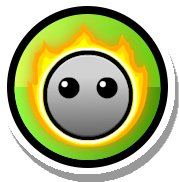
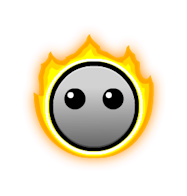
v1.1.4

diff --git a/src/FREditPopup.cpp b/src/FREditPopup.cpp
@@ -11,11 +11,10 @@ bool FRLevelInfoLayer::init(GJGameLevel* level, bool challenge) {
     if (!LevelInfoLayer::init(level, challenge)) return false;
 
     auto leftSideMenu = getChildByID("left-side-menu");
-    auto fakeRateButton = CCMenuItemSpriteExtra::create(
-        CCSprite::create("FR_fakeRateBtn_001.png"_spr),
-        this,
-        menu_selector(FRLevelInfoLayer::onFakeRate)
-    );
+    auto buttonSprite = CircleButtonSprite::createWithSprite("FR_fakeRateBtn_001.png"_spr, 1.0f, CircleBaseColor::Green, CircleBaseSize::Medium);
+    buttonSprite->getTopNode()->setScale(1.0f);
+    auto fakeRateButton = CCMenuItemSpriteExtra::create(buttonSprite, this, menu_selector(FRLevelInfoLayer::onFakeRate));
+    fakeRateButton->setID("fake-rate-button"_spr);
     leftSideMenu->addChild(fakeRateButton);
     leftSideMenu->updateLayout();
 
@@ -66,10 +65,27 @@ void FRLevelInfoLayer::updateFakeRate(int stars, int feature, int difficulty, bo
     auto winSize = CCDirector::sharedDirector()->getWinSize();
     auto gsm = GameStatsManager::sharedState();
     auto showStars = stars > 0 || m_level->m_dailyID > 0 || m_level->m_gauntletLevel;
-    m_difficultySprite->updateDifficultyFrame(difficulty, (GJDifficultyName)1);
+    m_difficultySprite->updateDifficultyFrame(difficulty, GJDifficultyName::Long);
     m_difficultySprite->updateFeatureState((GJFeatureState)feature);
-    m_difficultySprite->setPositionY(winSize.height / 2 + 56.0f + (difficulty > 5 ? 5.0f : 0.0f) + (showStars ? 10.0f : 0.0f));
-    m_starsIcon->setPosition({ m_difficultySprite->getPositionX() + 8.0f, m_difficultySprite->getPositionY() - 30.0f - (difficulty > 5 ? 9.0f : 0.0f) });
+    CCNode* nodeToSetPosition = m_difficultySprite;
+    CCNode* difficultySpriteParent = m_difficultySprite->getParent();
+    if (Loader::get()->isModLoaded("acaruso.horn")) {
+        auto children = getChildren();
+        for (int i = 0; i < children->count(); i++) {
+            if (auto child = typeinfo_cast<CCMenu*>(children->objectAtIndex(i))) {
+                if (auto button = typeinfo_cast<CCMenuItemSpriteExtra*>(child->getChildren()->objectAtIndex(0))) {
+                    if (button->getNormalImage() == m_difficultySprite) {
+                        nodeToSetPosition = child;
+                        difficultySpriteParent = button;
+                        break;
+                    }
+                }
+            }
+        }
+    }
+    nodeToSetPosition->setPositionY(winSize.height / 2 + 56.0f + (difficulty > 5 ? 5.0f : 0.0f) + (showStars ? 10.0f : 0.0f));
+    auto& position = nodeToSetPosition->getPosition();
+    m_starsIcon->setPosition({ position.x + 8.0f, position.y - 30.0f - (difficulty > 5 ? 9.0f : 0.0f) });
     m_starsIcon->setVisible(showStars);
     m_starsLabel->setPosition(m_starsIcon->getPositionX() - 8.0f, m_starsIcon->getPositionY());
     m_starsLabel->setString(std::to_string(stars).c_str());
@@ -77,7 +93,7 @@ void FRLevelInfoLayer::updateFakeRate(int stars, int feature, int difficulty, bo
     m_starsLabel->setColor({ 255, 255, (unsigned char)(gsm->hasCompletedLevel(m_level) ? 50 : 255) });
     for (int i = 0; i < m_coins->count(); i++) {
         auto coin = static_cast<CCSprite*>(m_coins->objectAtIndex(i));
-        coin->setPositionY(m_difficultySprite->getPositionY() - 31.5f - (showStars ? 14.0f : 0.0f)
+        coin->setPositionY(position.y - 31.5f - (showStars ? 14.0f : 0.0f)
             - (m_level->m_gauntletLevel || m_level->m_dailyID > 0 ? 14.5f : 0.0f) - (difficulty > 5 ? 9.0f : 0.0f));
         auto coinStr = fmt::format("{}_{}", m_level->m_levelID.value(), i + 1);
         if (m_level->m_dailyID > 0) coinStr += "_" + std::to_string(m_level->m_dailyID);
@@ -97,8 +113,8 @@ void FRLevelInfoLayer::updateFakeRate(int stars, int feature, int difficulty, bo
         auto diamonds = stars > 1 ? stars + 2 : 0;
         diamondLabel->setString(fmt::format("{}/{}", (int)floorf(diamonds * m_level->m_normalPercent / 100.0f), diamonds).c_str());
         diamondIcon->setPosition({
-            m_difficultySprite->getPositionX() + diamondLabel->getScaledContentSize().width * 0.5f + 2.0f,
-            m_difficultySprite->getPositionY() - (difficulty > 5 ? 9.0f : 0.0f) - 44.5f
+            position.x + diamondLabel->getScaledContentSize().width * 0.5f + 2.0f,
+            position.y - (difficulty > 5 ? 9.0f : 0.0f) - 44.5f
         });
         diamondLabel->setPosition({ diamondIcon->getPositionX() - 8.0f, diamondIcon->getPositionY() });
     }
@@ -127,7 +143,7 @@ void FRLevelInfoLayer::updateFakeRate(int stars, int feature, int difficulty, bo
         m_lengthLabel->setPositionY(m_lengthLabel->getPositionY() + 6.0f);
     }
 
-    if (Loader::get()->isModLoaded("uproxide.more_difficulties")) fixMoreDifficultiesIncompatibility();
+    if (Loader::get()->isModLoaded("uproxide.more_difficulties")) fixMoreDifficultiesIncompatibility(difficultySpriteParent);
 }
 
 void FRLevelInfoLayer::onFakeRate(CCObject*) {
@@ -141,7 +157,7 @@ void FRLevelInfoLayer::onFakeRate(CCObject*) {
     popup->show();
 }
 
-void FRLevelInfoLayer::fixMoreDifficultiesIncompatibility() {
+void FRLevelInfoLayer::fixMoreDifficultiesIncompatibility(CCNode* difficultySpriteParent) {
     auto spriteName = std::string();
     auto moreDifficultiesSprite = static_cast<CCSprite*>(getChildByID("uproxide.more_difficulties/more-difficulties-spr"));
     if (moreDifficultiesSprite) {
@@ -150,8 +166,11 @@ void FRLevelInfoLayer::fixMoreDifficultiesIncompatibility() {
     }
     m_difficultySprite->setOpacity(255);
 
-    auto legacy = Loader::get()->getInstalledMod("uproxide.more_difficulties")->getSettingValue<bool>("legacy-difficulties");
-    auto pos = CCPoint { m_difficultySprite->getPositionX() + (legacy ? 0.0f : 0.25f), m_difficultySprite->getPositionY() - (legacy ? 0.0f : 0.1f) };
+    auto legacy = Loader::get()->getLoadedMod("uproxide.more_difficulties")->getSettingValue<bool>("legacy-difficulties");
+    auto pos = difficultySpriteParent->convertToWorldSpace({
+        m_difficultySprite->getPositionX() + (legacy ? 0.0f : 0.25f),
+        m_difficultySprite->getPositionY() - (legacy ? 0.0f : 0.1f)
+    });
     if (spriteName.compare("uproxide.more_difficulties/MD_DifficultyCP.png") == 0) {
         moreDifficultiesSprite->setVisible(true);
         m_difficultySprite->setOpacity(0);
@@ -219,12 +238,12 @@ bool FREditPopup::setup(GJGameLevel* level, int stars, int feature, int difficul
     m_feature = feature;
     m_difficulty = difficulty;
 
-    m_difficultySprite = GJDifficultySprite::create(difficulty, (GJDifficultyName)1);
+    m_difficultySprite = GJDifficultySprite::create(difficulty, GJDifficultyName::Long);
     m_difficultySprite->setPositionX(100.0f);
     m_mainLayer->addChild(m_difficultySprite);
 
-    if (Loader::get()->isModInstalled("uproxide.more_difficulties")) {
-        auto legacy = Loader::get()->getInstalledMod("uproxide.more_difficulties")->getSettingValue<bool>("legacy-difficulties");
+    if (Loader::get()->isModLoaded("uproxide.more_difficulties")) {
+        auto legacy = Loader::get()->getLoadedMod("uproxide.more_difficulties")->getSettingValue<bool>("legacy-difficulties");
         auto pos = CCPoint { legacy ? 100.0f : 100.25f, legacy ? 85.0f : 84.9f };
 
         m_casualSprite = CCSprite::createWithSpriteFrameName(fmt::format("uproxide.more_difficulties/MD_Difficulty04{}.png", legacy ? "_Legacy" : "").c_str());
@@ -351,7 +370,7 @@ void FREditPopup::onFeatureRight(CCObject*) {
 
 void FREditPopup::updateLabels() {
     m_difficulty = m_stars >= 10 ? m_difficulty > 5 ? m_difficulty : 7 : FakeRate::getDifficultyForStars(m_stars);
-    m_difficultySprite->updateDifficultyFrame(m_difficulty, (GJDifficultyName)1);
+    m_difficultySprite->updateDifficultyFrame(m_difficulty, GJDifficultyName::Long);
     m_difficultySprite->updateFeatureState((GJFeatureState)m_feature);
     m_difficultySprite->setPositionY(85.0f + (m_difficulty > 5 ? 5.0f : 0.0f));
     m_starSprite->setPosition({ m_difficultySprite->getPositionX() + 8.0f, m_difficultySprite->getPositionY() - 30.0f - (m_difficulty > 5 ? 9.0f : 0.0f) });
@@ -365,7 +384,7 @@ void FREditPopup::updateLabels() {
     m_difficultyRightArrow->setEnabled(m_difficulty > 5);
     m_featureLeftArrow->setPositionY(m_difficultySprite->getPositionY() + 5.0f);
     m_featureRightArrow->setPositionY(m_difficultySprite->getPositionY() + 5.0f);
-    if (Loader::get()->isModInstalled("uproxide.more_difficulties")) {
+    if (Loader::get()->isModLoaded("uproxide.more_difficulties")) {
         m_casualSprite->setVisible(m_stars == 4);
         m_toughSprite->setVisible(m_stars == 7);
         m_cruelSprite->setVisible(m_stars == 9);

diff --git a/src/main.cpp b/src/main.cpp
@@ -27,8 +27,8 @@ class $modify(FRLevelCell, LevelCell) {
                         featureGlow->setPosition(difficultySprite->getContentWidth() * 0.5f, difficultySprite->getContentHeight() * 0.5f);
                 }
 
-                auto fakeRateData = *it;
-                difficultySprite->updateDifficultyFrame(fakeRateData.difficulty, (GJDifficultyName)0);
+                auto& fakeRateData = *it;
+                difficultySprite->updateDifficultyFrame(fakeRateData.difficulty, GJDifficultyName::Short);
                 difficultySprite->updateFeatureState((GJFeatureState)fakeRateData.feature);
                 auto addCoins = level->m_coins > 0 && !m_compactView;
                 auto showStars = fakeRateData.stars > 0 || level->m_dailyID > 0;
@@ -110,7 +110,6 @@ class $modify(FRLevelCell, LevelCell) {
                     }
                     auto orbs = FakeRate::getBaseCurrency(fakeRateData.stars);
                     auto totalOrbs = (int)floorf(orbs * 1.25f);
-                    log::info("{}", level->m_normalPercent.value());
                     orbsLabel->setString((level->m_normalPercent == 100 ?
                         fmt::format("{}", totalOrbs) :
                         fmt::format("{}/{}", (int)floorf(orbs * level->m_normalPercent / 100.0f), totalOrbs)).c_str());
@@ -139,7 +138,7 @@ class $modify(FRLevelCell, LevelCell) {
         auto difficultySprite = static_cast<GJDifficultySprite*>(difficultyContainer->getChildByID("difficulty-sprite"));
         difficultySprite->setOpacity(255);
 
-        auto legacy = Loader::get()->getInstalledMod("uproxide.more_difficulties")->getSettingValue<bool>("legacy-difficulties");
+        auto legacy = Loader::get()->getLoadedMod("uproxide.more_difficulties")->getSettingValue<bool>("legacy-difficulties");
         auto pos = CCPoint { difficultySprite->getPositionX() + (legacy ? 0.0f : 0.25f), difficultySprite->getPositionY() - (legacy ? 0.0f : 0.1f) };
         if (spriteName.compare("uproxide.more_difficulties/MD_DifficultyCP.png") == 0) {
             moreDifficultiesSprite->setVisible(true);

diff --git a/src/FREditPopup.hpp b/src/FREditPopup.hpp
@@ -21,7 +21,7 @@ class FRLevelInfoLayerDummy; struct FRLevelInfoLayer : Modify<FRLevelInfoLayer, 
     void checkFakeRate();
     void updateFakeRate(int, int, int, bool, bool);
     void onFakeRate(CCObject*);
-    void fixMoreDifficultiesIncompatibility();
+    void fixMoreDifficultiesIncompatibility(CCNode*);
 };
 
 class FREditPopup : public Popup<GJGameLevel*, int, int, int> {

diff --git a/changelog.md b/changelog.md
@@ -1,4 +1,8 @@
 # Fake Rate Changelog
+## v1.1.4 (2024-05-24)
+- Fixed incompatibility with the mod "Underrated Non-Demons" by acaruso
+- Tweaked appearance of the fake rate button
+
 ## v1.1.3 (2024-05-20)
 - Fixed a mistake in the manifest that caused More Difficulties 1.1.0 to not be marked as incompatible
 
